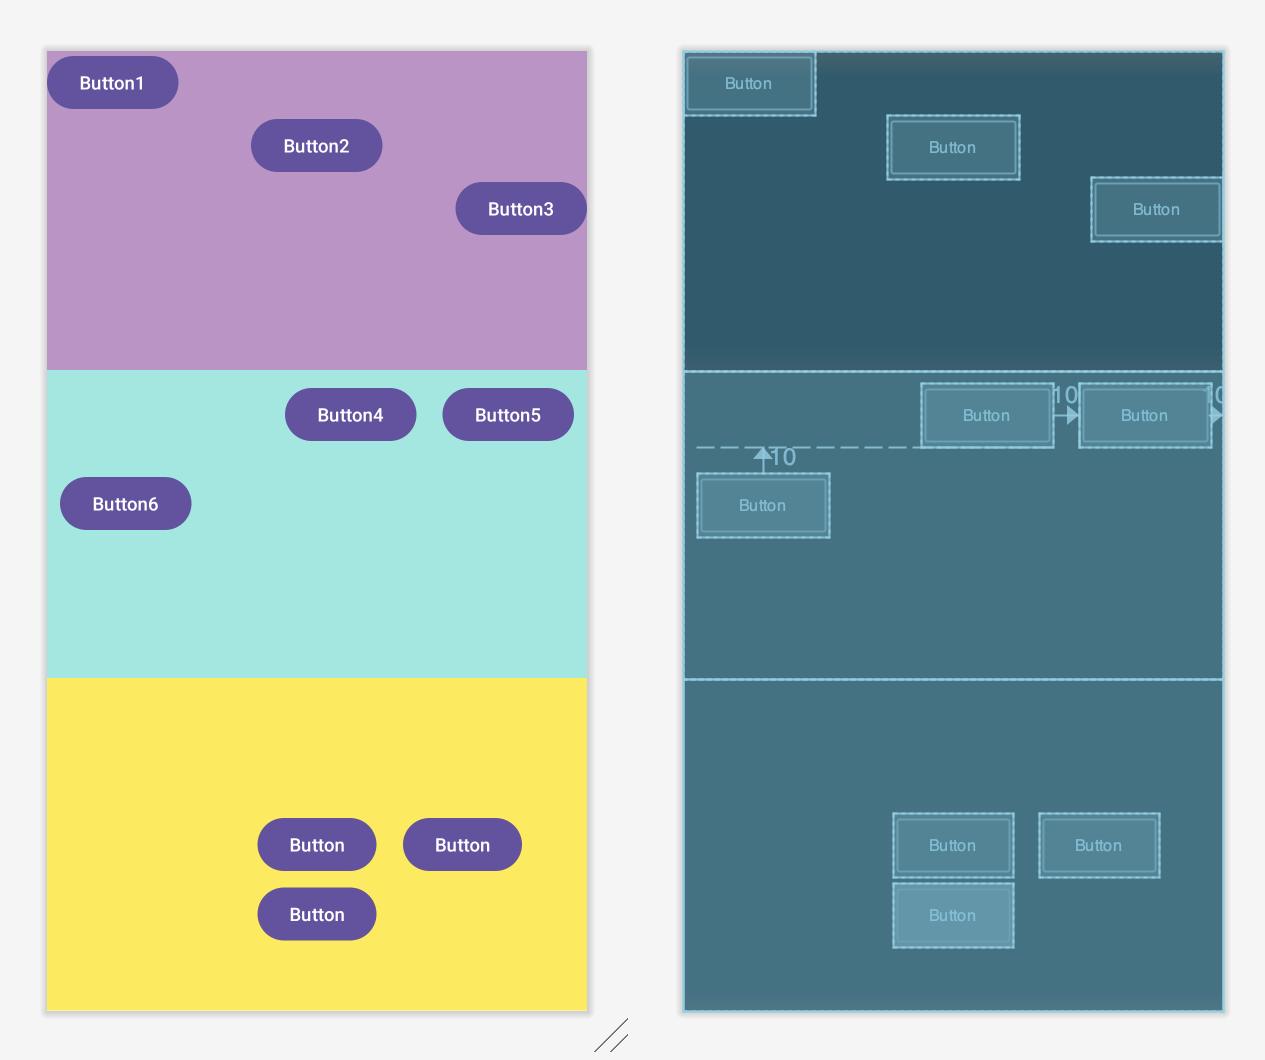
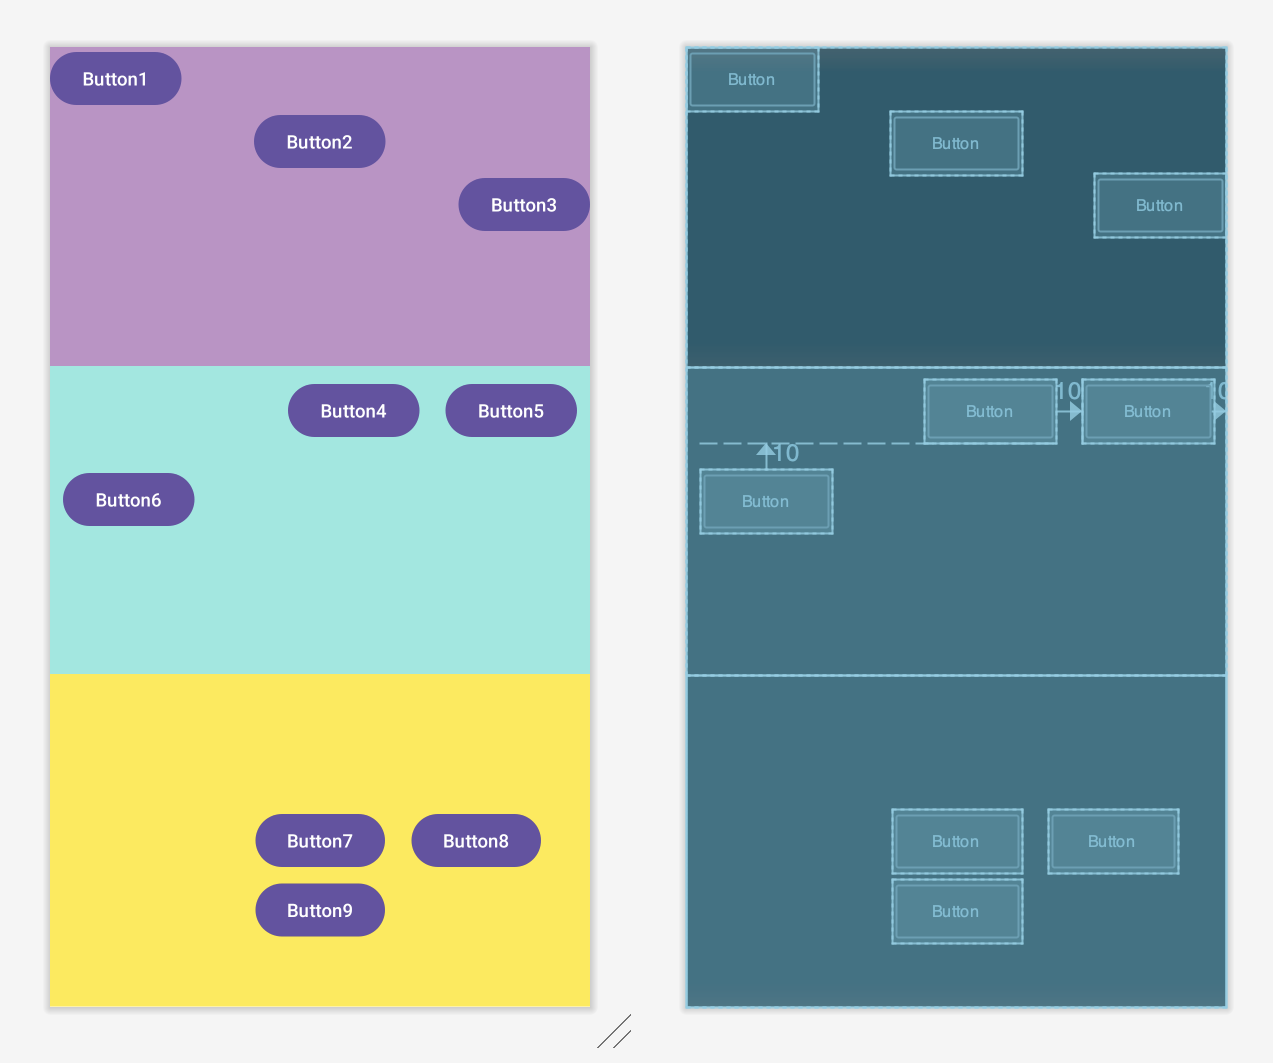
[DOCS] : 📚
내용수정

diff --git a/_posts/devlog/kotlin/2023-07-31-UIlayout.md b/_posts/devlog/kotlin/2023-07-31-UIlayout.md
@@ -53,9 +53,7 @@ LinearLayout의 자식들은 중첩(overrap)되지 않고,지정한 방향으로
 
 * 주요속성
 
-![Untitled (2)](../../../assets/img/blog/Untitled (2).png)
-
-![Untitled (1)](../../../assets/img/blog/Untitled (1).png)
+![RL1](../../../assets/img/blog/RL1.png)![RL2](../../../assets/img/blog/RL2.png)
 
 ---
 
@@ -220,7 +218,7 @@ LinearLayout의 자식들은 중첩(overrap)되지 않고,지정한 방향으로
             android:id="@+id/btn7"
             android:layout_width="wrap_content"
             android:layout_height="wrap_content"
-            android:text="Button"
+            android:text="Button7"
             app:layout_constraintBottom_toBottomOf="parent"
             app:layout_constraintEnd_toEndOf="parent"
             app:layout_constraintStart_toStartOf="parent"
@@ -231,7 +229,7 @@ LinearLayout의 자식들은 중첩(overrap)되지 않고,지정한 방향으로
             android:layout_width="wrap_content"
             android:layout_height="wrap_content"
             android:layout_marginStart="20dp"
-            android:text="Button"
+            android:text="Button8"
             app:layout_constraintBottom_toBottomOf="parent"
             app:layout_constraintStart_toEndOf="@+id/btn7"
             app:layout_constraintTop_toTopOf="parent" />
@@ -241,7 +239,7 @@ LinearLayout의 자식들은 중첩(overrap)되지 않고,지정한 방향으로
             android:layout_width="wrap_content"
             android:layout_height="wrap_content"
             android:layout_marginTop="5dp"
-            android:text="Button"
+            android:text="Button9"
             app:layout_constraintEnd_toEndOf="parent"
             app:layout_constraintStart_toStartOf="parent"
             app:layout_constraintTop_toBottomOf="@+id/btn7" />
